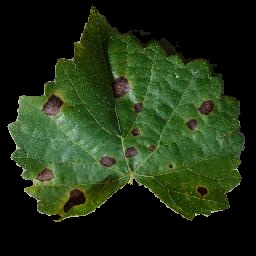
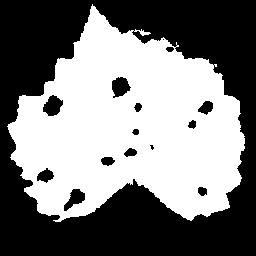
- Change naming so that it is more intuitive to work with - Introduce a mode of generating background marker additional to segmentation of image

diff --git a/segment.py b/segment.py
@@ -36,7 +36,7 @@ def generate_background_marker(file):
     return original_image, marker
 
 
-def segment_leaf(image_file, filling_mode, smooth_boundary, contrast):
+def segment_leaf(image_file, filling_mode, smooth_boundary, marker_intensity):
     """
     Segments leaf from an image file
 
@@ -45,12 +45,13 @@ def segment_leaf(image_file, filling_mode, smooth_boundary, contrast):
         filling_mode (string {no, flood, threshold, morph}): 
             how holes should be filled in segmented leaf
         smooth_boundary (boolean): should leaf boundary smoothed or not
-        contrast (boolean): should output be segmented image or just mask
+        marker_intensity (int in rgb_range): should output background marker based
+                                             on this intensity value as foreground value
 
     Returns:
         tuple[0] (ndarray): original image to be segmented
         tuple[1] (ndarray): A mask to indicate where leaf is in the image
-                            or the segmented image based on contrast value
+                            or the segmented image based on marker_intensity value
     """
     # get background marker and original image
     original, marker = generate_background_marker(image_file)
@@ -62,9 +63,10 @@ def segment_leaf(image_file, filling_mode, smooth_boundary, contrast):
 
     # further processing of image, filling holes, smoothing edges
     largest_mask = \
-        select_largest_obj(bin_image, fill_mode=filling_mode, smooth_boundary=smooth)
+        select_largest_obj(bin_image, fill_mode=filling_mode, smooth_boundary=smooth_boundary)
 
-    if contrast:
+    if marker_intensity > 0:
+        largest_mask[largest_mask == 255] = marker_intensity
         image = largest_mask
     else:
         # apply marker to original image
@@ -74,11 +76,38 @@ def segment_leaf(image_file, filling_mode, smooth_boundary, contrast):
     return original, image
 
 
+def rgb_range(arg):
+    """
+    Check if arg is in range for rgb value(between 0 and 255)
+
+    Args:
+        arg (int convertible): value to be checked for validity of range
+
+    Returns:
+        arg in int form if valid
+
+    Raises:
+        argparse.ArgumentTypeError: if value can not be integer or not in valid range
+    """
+
+    try:
+        value = int(arg)
+    except ValueError as err:
+       raise argparse.ArgumentTypeError(str(err))
+
+    if value < 0 or value > 255:
+        message = "Expected 0 <= value <= 255, got value = {}".format(value)
+        raise argparse.ArgumentTypeError(message)
+
+    return value
+
+
 if __name__ == '__main__':
     # handle command line arguments
-    parser = argparse.ArgumentParser('generate_marker')
-    parser.add_argument('-c', '--contrast', action='store_true',
-                        help='Output image will be as black background and white foreground')
+    parser = argparse.ArgumentParser('segment')
+    parser.add_argument('-m', '--marker_intensity', type=rgb_range, default=0,
+                        help='Output image will be as black background and foreground '
+                             'with integer value specified here')
     parser.add_argument('-f', '--fill', choices=['no', 'flood', 'threshold', 'morph'],
                         help='Change hole filling technique for holes appearing in segmented output',
                         default='flood')
@@ -125,7 +154,7 @@ if __name__ == '__main__':
         try:
             # read image and segment leaf
             original, output_image = \
-                segment_leaf(os.path.join(base_folder, file), filling_mode, smooth, args.contrast)
+                segment_leaf(os.path.join(base_folder, file), filling_mode, smooth, args.marker_intensity)
 
         except ValueError as err:
             if str(err) == IMAGE_NOT_READ:

diff --git a/review.py b/review.py
@@ -62,7 +62,7 @@ def review_marker(file_name):
 def review_segmentation(file_name):
     try:
         original_image = read_image(file_name)        
-        ret_val, segmented_image = segment(file_name)
+        ret_val, segmented_image = segment_with_otsu(file_name)
     except ValueError as err:
         if str(err) == IMAGE_NOT_READ:
             print('Error: Couldnot read image file: ', file_name)

diff --git a/otsu_segmentation.py b/otsu_segmentation.py
@@ -49,7 +49,7 @@ def apply_marker(image, marker, background = 0, inverse = True):
 
     return new_image
 
-def segment(image_file, background = 0):
+def segment_with_otsu(image_file, background = 0):
     """
     Segment an image file using otsu thresholding
     Args:

diff --git a/README.md b/README.md
@@ -11,22 +11,23 @@ Images ](https://arxiv.org/pdf/1709.06437.pdf)
 
 ### Usage
 
-- `python3 generate_marker.py`
+- `python3 segment.py`
 
  __Command structure__
 ```
-usage: generate_marker [-h] [-c] [-f {no,flood,threshold,morph}] [-s]
-                       [-d DESTINATION]
-                       image_source
+usage: segment [-h] [-m MARKER_INTENSITY] [-f {no,flood,threshold,morph}] [-s]
+               [-d DESTINATION]
+               image_source
 
 positional arguments:
   image_source          A path of image filename or folder containing images
 
 optional arguments:
   -h, --help            show this help message and exit
-  -c, --contrast        Segmented output image will be as black background and white
-                        foreground
-  -f {no,flood,threshold,morph}, --fill {no,flood,threshold,morph} (defaulth mode is flood)
+  -m MARKER_INTENSITY, --marker_intensity MARKER_INTENSITY
+                        Output image will be as black background and
+                        foreground with integer value specified here
+  -f {no,flood,threshold,morph}, --fill {no,flood,threshold,morph}
                         Change hole filling technique for holes appearing in
                         segmented output
   -s, --smooth          Output image with smooth edges
@@ -34,11 +35,12 @@ optional arguments:
                         Destination directory for output image. If not
                         specified destination directory will be input image
                         directory
+
 ```
 
 ### Examples:
 
-__Command used__: `python3 generate_marker.py 'some file or folder'`
+__Command used__: `python3 segment.py 'some file or folder'`
 
 __Input Images__
         
